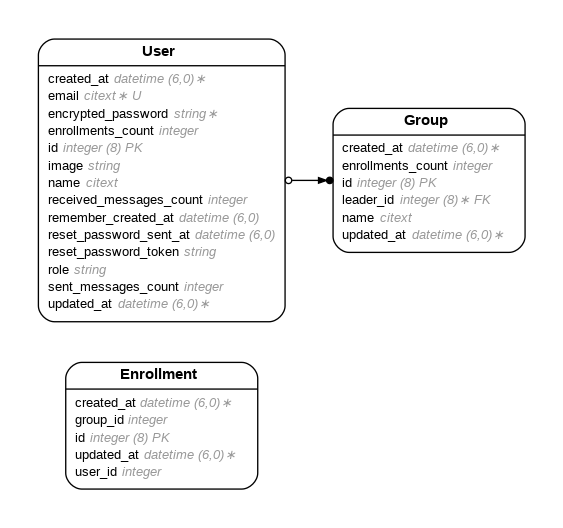
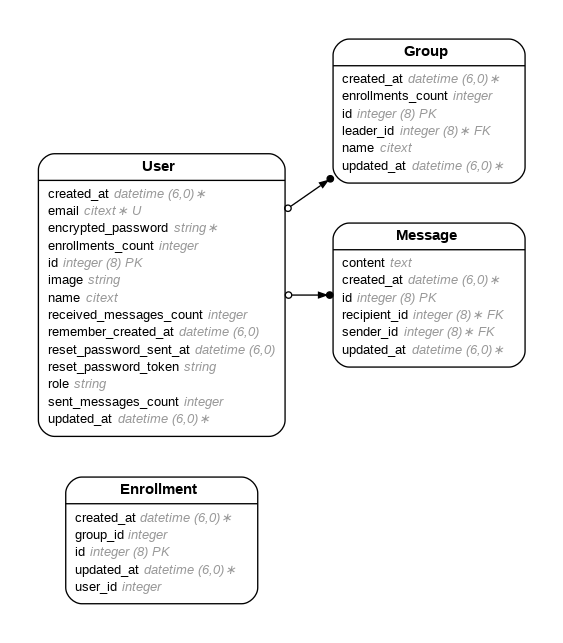
added messages scaffold

Changed region(s): [[0.0604, 0.0606, 0.5133, 0.9394], [0.4831, 0.0606, 0.9361, 0.5758]]

diff --git a/app/controllers/messages_controller.rb b/app/controllers/messages_controller.rb
@@ -1,0 +1,70 @@
+class MessagesController < ApplicationController
+  before_action :set_message, only: %i[ show edit update destroy ]
+
+  # GET /messages or /messages.json
+  def index
+    @messages = Message.all
+  end
+
+  # GET /messages/1 or /messages/1.json
+  def show
+  end
+
+  # GET /messages/new
+  def new
+    @message = Message.new
+  end
+
+  # GET /messages/1/edit
+  def edit
+  end
+
+  # POST /messages or /messages.json
+  def create
+    @message = Message.new(message_params)
+
+    respond_to do |format|
+      if @message.save
+        format.html { redirect_to message_url(@message), notice: "Message was successfully created." }
+        format.json { render :show, status: :created, location: @message }
+      else
+        format.html { render :new, status: :unprocessable_entity }
+        format.json { render json: @message.errors, status: :unprocessable_entity }
+      end
+    end
+  end
+
+  # PATCH/PUT /messages/1 or /messages/1.json
+  def update
+    respond_to do |format|
+      if @message.update(message_params)
+        format.html { redirect_to message_url(@message), notice: "Message was successfully updated." }
+        format.json { render :show, status: :ok, location: @message }
+      else
+        format.html { render :edit, status: :unprocessable_entity }
+        format.json { render json: @message.errors, status: :unprocessable_entity }
+      end
+    end
+  end
+
+  # DELETE /messages/1 or /messages/1.json
+  def destroy
+    @message.destroy!
+
+    respond_to do |format|
+      format.html { redirect_to messages_url, notice: "Message was successfully destroyed." }
+      format.json { head :no_content }
+    end
+  end
+
+  private
+    # Use callbacks to share common setup or constraints between actions.
+    def set_message
+      @message = Message.find(params[:id])
+    end
+
+    # Only allow a list of trusted parameters through.
+    def message_params
+      params.require(:message).permit(:sender_id, :recipient_id, :content)
+    end
+end

diff --git a/db/schema.rb b/db/schema.rb
@@ -10,7 +10,7 @@
 #
 # It's strongly recommended that you check this file into your version control system.
 
-ActiveRecord::Schema[7.1].define(version: 2025_02_08_192119) do
+ActiveRecord::Schema[7.1].define(version: 2025_02_08_192410) do
   # These are extensions that must be enabled in order to support this database
   enable_extension "citext"
   enable_extension "plpgsql"
@@ -29,6 +29,16 @@ ActiveRecord::Schema[7.1].define(version: 2025_02_08_192119) do
     t.datetime "created_at", null: false
     t.datetime "updated_at", null: false
     t.index ["leader_id"], name: "index_groups_on_leader_id"
+  end
+
+  create_table "messages", force: :cascade do |t|
+    t.bigint "sender_id", null: false
+    t.bigint "recipient_id", null: false
+    t.text "content"
+    t.datetime "created_at", null: false
+    t.datetime "updated_at", null: false
+    t.index ["recipient_id"], name: "index_messages_on_recipient_id"
+    t.index ["sender_id"], name: "index_messages_on_sender_id"
   end
 
   create_table "users", force: :cascade do |t|
@@ -51,4 +61,6 @@ ActiveRecord::Schema[7.1].define(version: 2025_02_08_192119) do
   end
 
   add_foreign_key "groups", "users", column: "leader_id"
+  add_foreign_key "messages", "users", column: "recipient_id"
+  add_foreign_key "messages", "users", column: "sender_id"
 end

diff --git a/app/models/message.rb b/app/models/message.rb
@@ -1,0 +1,25 @@
+# == Schema Information
+#
+# Table name: messages
+#
+#  id           :bigint           not null, primary key
+#  content      :text
+#  created_at   :datetime         not null
+#  updated_at   :datetime         not null
+#  recipient_id :bigint           not null
+#  sender_id    :bigint           not null
+#
+# Indexes
+#
+#  index_messages_on_recipient_id  (recipient_id)
+#  index_messages_on_sender_id     (sender_id)
+#
+# Foreign Keys
+#
+#  fk_rails_...  (recipient_id => users.id)
+#  fk_rails_...  (sender_id => users.id)
+#
+class Message < ApplicationRecord
+  belongs_to :sender, class_name: "User"
+  belongs_to :recipient, class_name: "User"
+end

diff --git a/db/migrate/20250208192410_create_messages.rb b/db/migrate/20250208192410_create_messages.rb
@@ -1,0 +1,11 @@
+class CreateMessages < ActiveRecord::Migration[7.1]
+  def change
+    create_table :messages do |t|
+      t.references :sender, null: false, foreign_key: { to_table: :users }
+      t.references :recipient, null: false, foreign_key: { to_table: :users }
+      t.text :content
+
+      t.timestamps
+    end
+  end
+end

diff --git a/app/models/user.rb b/app/models/user.rb
@@ -32,4 +32,6 @@ class User < ApplicationRecord
   enum role: {guardian: "guardian", teacher: "teacher"}
 
   has_many :groups, class_name: "Group", foreign_key: "leader_id"
+  has_many :sent_messages, class_name: "Message", foreign_key: "sender_id"
+  has_many :received_messages, class_name: "Message", foreign_key: "recipient_id"
 end

diff --git a/config/routes.rb b/config/routes.rb
@@ -1,4 +1,5 @@
 Rails.application.routes.draw do
+  resources :messages
   resources :enrollments
   resources :groups
   devise_for :users
